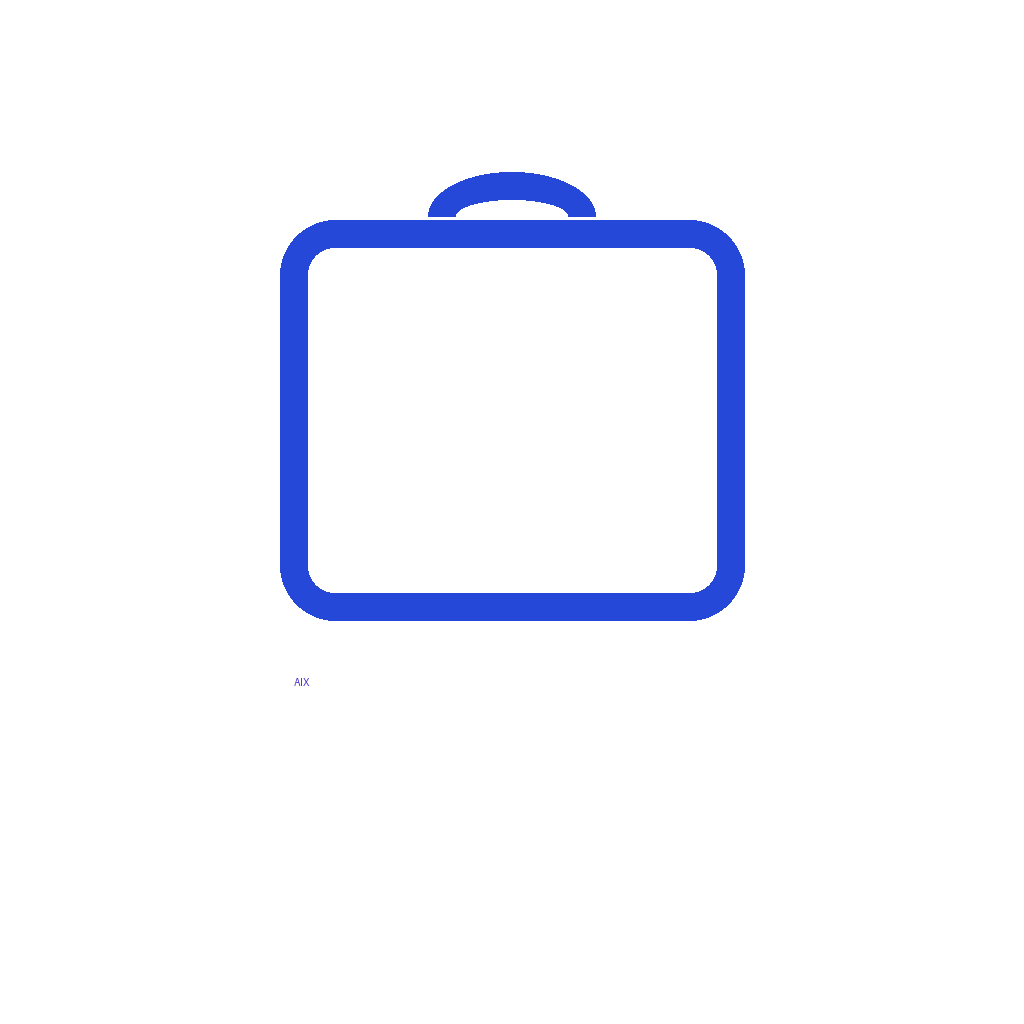
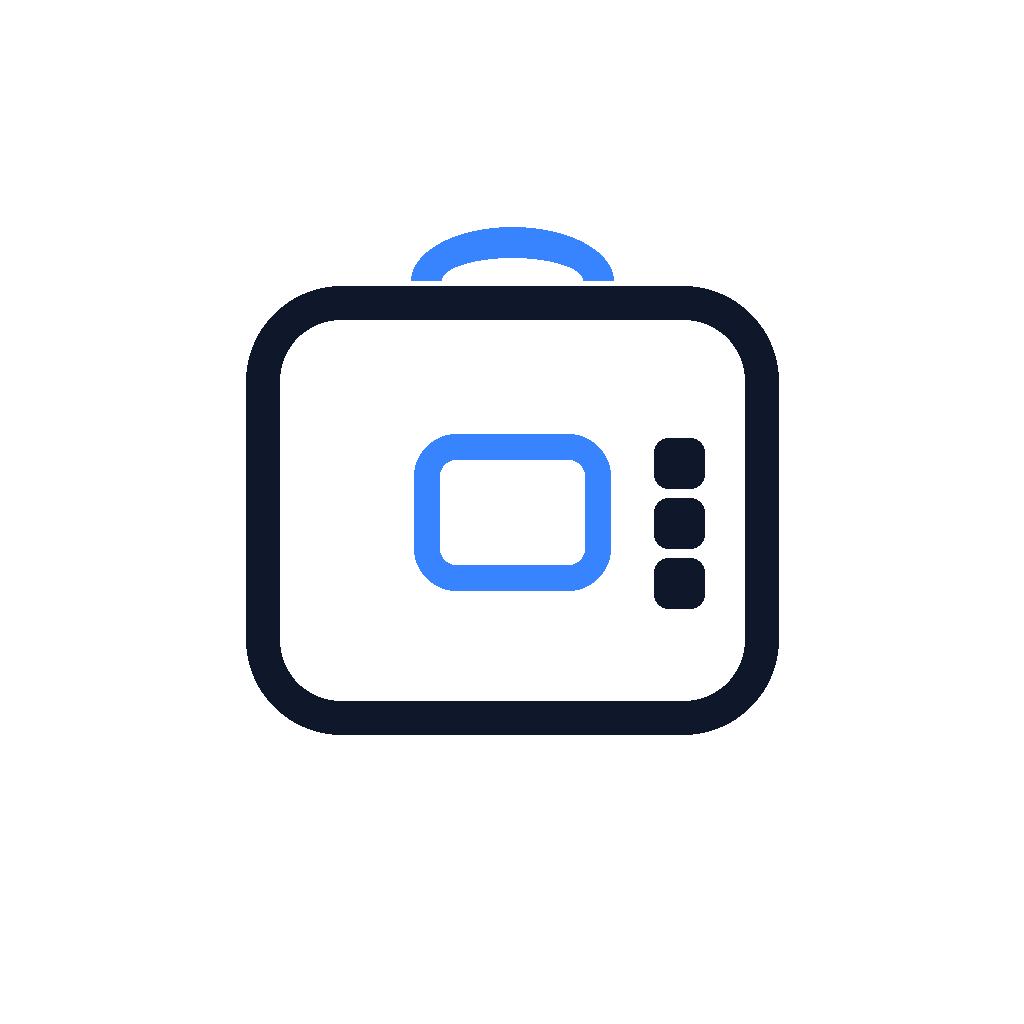
hre

Changed region(s): [[0.2188, 0.1562, 0.7812, 0.7188]]

diff --git a/apps/mobile/App.tsx b/apps/mobile/App.tsx
@@ -343,11 +343,6 @@ function BrandHero({
 }) {
   return (
     <View style={[styles.brandHero, compact && styles.brandHeroCompact]}>
-      <View style={styles.brandGlowBlue} />
-      <View style={styles.brandGlowPurple} />
-      <View style={styles.brandPill}>
-        <Text style={styles.brandPillText}>AIX STORE</Text>
-      </View>
       <Image resizeMode="contain" source={brandLogo} style={[styles.brandImage, compact && styles.brandImageCompact]} />
       <Text style={[styles.brandCaption, compact && styles.brandCaptionCompact]}>{caption}</Text>
     </View>
@@ -2592,70 +2587,32 @@ const styles = StyleSheet.create({
     lineHeight: 22,
   },
   brandHero: {
-    backgroundColor: "#2648D8",
-    borderColor: "#6A2BE9",
+    backgroundColor: colors.surface,
+    borderColor: colors.border,
     borderRadius: 32,
     borderWidth: 1,
     marginBottom: spacing.xs,
     overflow: "hidden",
     paddingHorizontal: spacing.lg,
     paddingVertical: spacing.lg,
-    position: "relative",
   },
   brandHeroCompact: {
     paddingVertical: spacing.md,
   },
-  brandGlowBlue: {
-    backgroundColor: "#57A3FF",
-    borderRadius: 999,
-    height: 220,
-    left: -70,
-    opacity: 0.26,
-    position: "absolute",
-    top: -60,
-    width: 220,
-  },
-  brandGlowPurple: {
-    backgroundColor: "#7C3AED",
-    borderRadius: 999,
-    bottom: -110,
-    height: 260,
-    opacity: 0.34,
-    position: "absolute",
-    right: -80,
-    width: 260,
-  },
-  brandPill: {
-    alignSelf: "flex-start",
-    backgroundColor: "rgba(255,255,255,0.12)",
-    borderColor: "rgba(255,255,255,0.22)",
-    borderRadius: 999,
-    borderWidth: 1,
-    marginBottom: spacing.sm,
-    paddingHorizontal: spacing.sm,
-    paddingVertical: 6,
-  },
-  brandPillText: {
-    color: colors.onPrimary,
-    fontSize: 11,
-    fontWeight: "800",
-    letterSpacing: 0.8,
-  },
   brandImage: {
     alignSelf: "center",
-    height: 190,
-    marginBottom: spacing.sm,
+    height: 124,
+    marginBottom: spacing.md,
     width: "100%",
   },
   brandImageCompact: {
-    height: 156,
+    height: 104,
     marginBottom: spacing.xs,
   },
   brandCaption: {
-    color: "#E7EEFF",
-    fontSize: 14,
-    lineHeight: 21,
-    maxWidth: 340,
+    color: colors.textMuted,
+    fontSize: 15,
+    lineHeight: 22,
   },
   brandCaptionCompact: {
     fontSize: 13,

diff --git a/apps/mobile/src/runtime/client.ts b/apps/mobile/src/runtime/client.ts
@@ -1,6 +1,7 @@
 import { NativeModules } from "react-native";
 
 const DEFAULT_RUNTIME_PORT = 8787;
+const DEFAULT_PRODUCTION_RUNTIME_URL = "https://aix-store-production.up.railway.app";
 const runtimeOverride = (process.env.EXPO_PUBLIC_AIXSTORE_RUNTIME_URL ?? "").trim();
 
 function extractMetroHost() {
@@ -12,6 +13,9 @@ function extractMetroHost() {
 export function runtimeBaseUrl() {
   if (runtimeOverride) {
     return runtimeOverride.replace(/\/+$/, "");
+  }
+  if (!__DEV__) {
+    return DEFAULT_PRODUCTION_RUNTIME_URL;
   }
   return `http://${extractMetroHost()}:${DEFAULT_RUNTIME_PORT}`;
 }